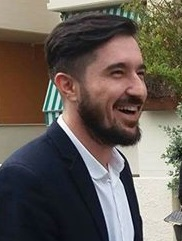
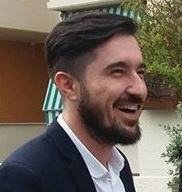
1 resize portrait image 2 style about section 3 add new color 4 edit json data

diff --git a/src/_component/about/about.scss b/src/_component/about/about.scss
@@ -4,19 +4,81 @@ $class: 'about';
 
 .#{$class} {
   @extend %section;
+  text-align: center;
 }
 
 .#{$class}-wrapper {
   padding: 5vw;
-  align-items: center;
-  display: inline-block;
-  text-align: center;
+  display: block;
+}
+
+
+.#{$class}-me-wrapper {
+  @extend %wrapper;
+}
+
+.#{$class}-details-title,
+.#{$class}-hobbies-title {
+  @extend %title-frame;
 }
 
 .#{$class}-portrait-wrapper,
-.#{$class}-me-wrapper,
-.#{$class}-details-hobbies-wrapper,
+.#{$class}-me-wrapper {
+  @extend %section-title;
+}
+
+
+.#{$class}-portrait {
+  border-radius: 50%;
+  padding: 0.3rem;
+  border: 0.3rem solid $color-ospace;
+}
+
+.#{$class}-me-title {
+  font-size: 2rem;
+  font-weight: bold;
+}
+.#{$class}-me-underline {
+  color: $color-red;
+}
+
+.#{$class}-me-content {
+  margin: 4rem 0;
+  line-height: 1rem;
+  text-align: justify;
+  text-indent: 1.5rem;
+}
+%details-frame {
+  width: 50%;
+  margin: 0;
+}
+
 .#{$class}-details,
 .#{$class}-hobbies {
-  @extend %wrapper;
+  @extend %details-frame;
+}
+
+.#{$class}-details {
+  float: left;
+}
+
+.#{$class}-details-item {
+  float:left;
+  text-align: left;
+}
+
+.#{$class}-details-data {
+  float: right;
+  text-align: right;
+}
+
+.#{$class}-hobbies {
+  float: right;
+}
+
+
+.#{$class}-hobbies-icon {
+  display: inline-block;
+  justify-content: center;
+  text-align: justify;
 }

diff --git a/src/_component/config/color.scss b/src/_component/config/color.scss
@@ -1,4 +1,5 @@
 $color-white: white;
+$color-red: red;
 $color-ottoman: #FBFEFB;
 $color-westar: #E6E2DE;
 $color-rose: #F9AAAA;
